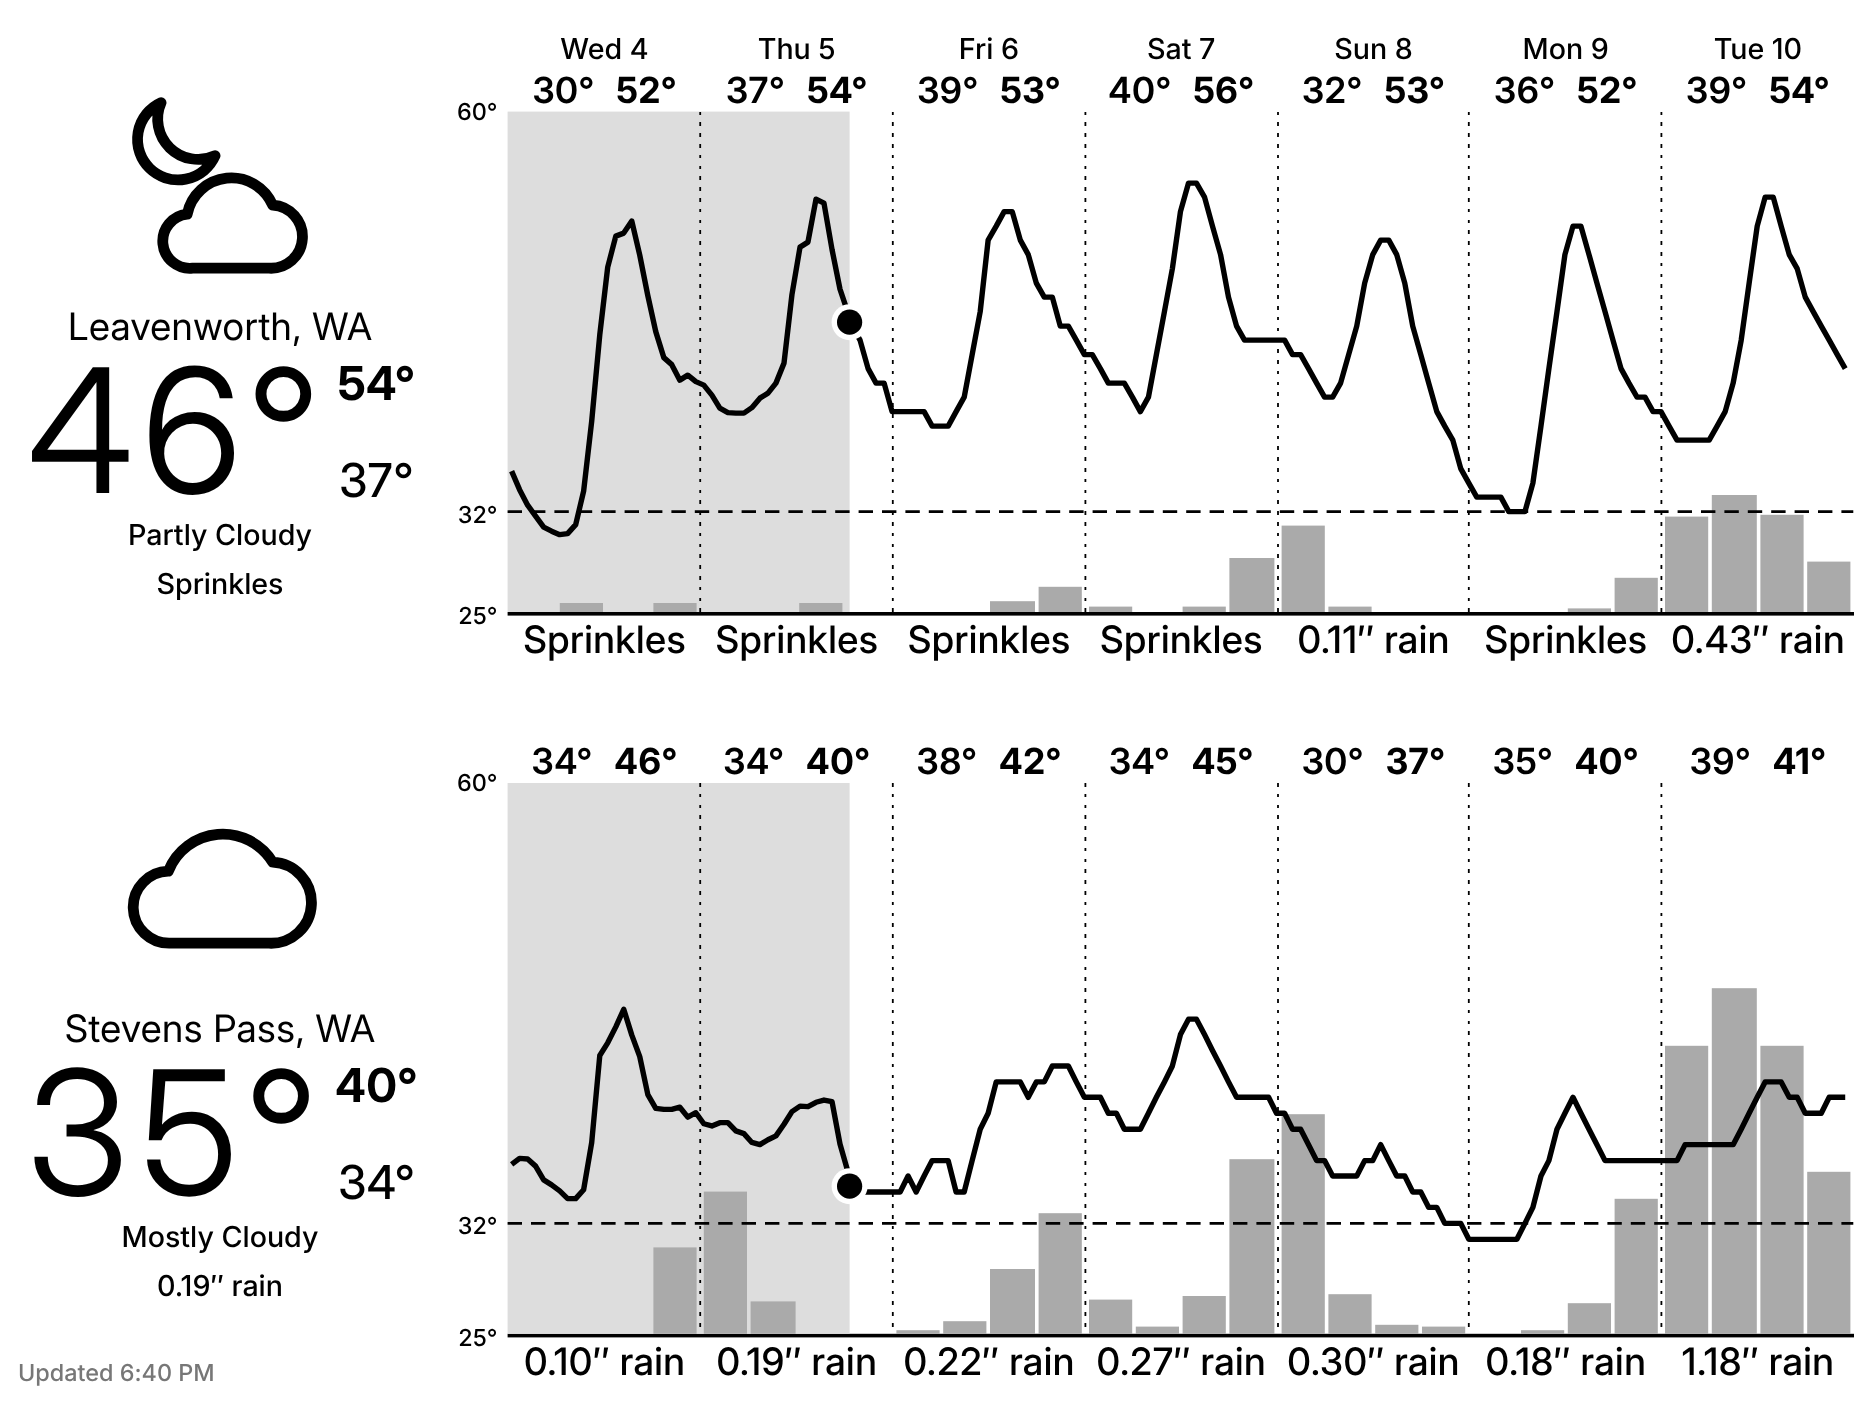
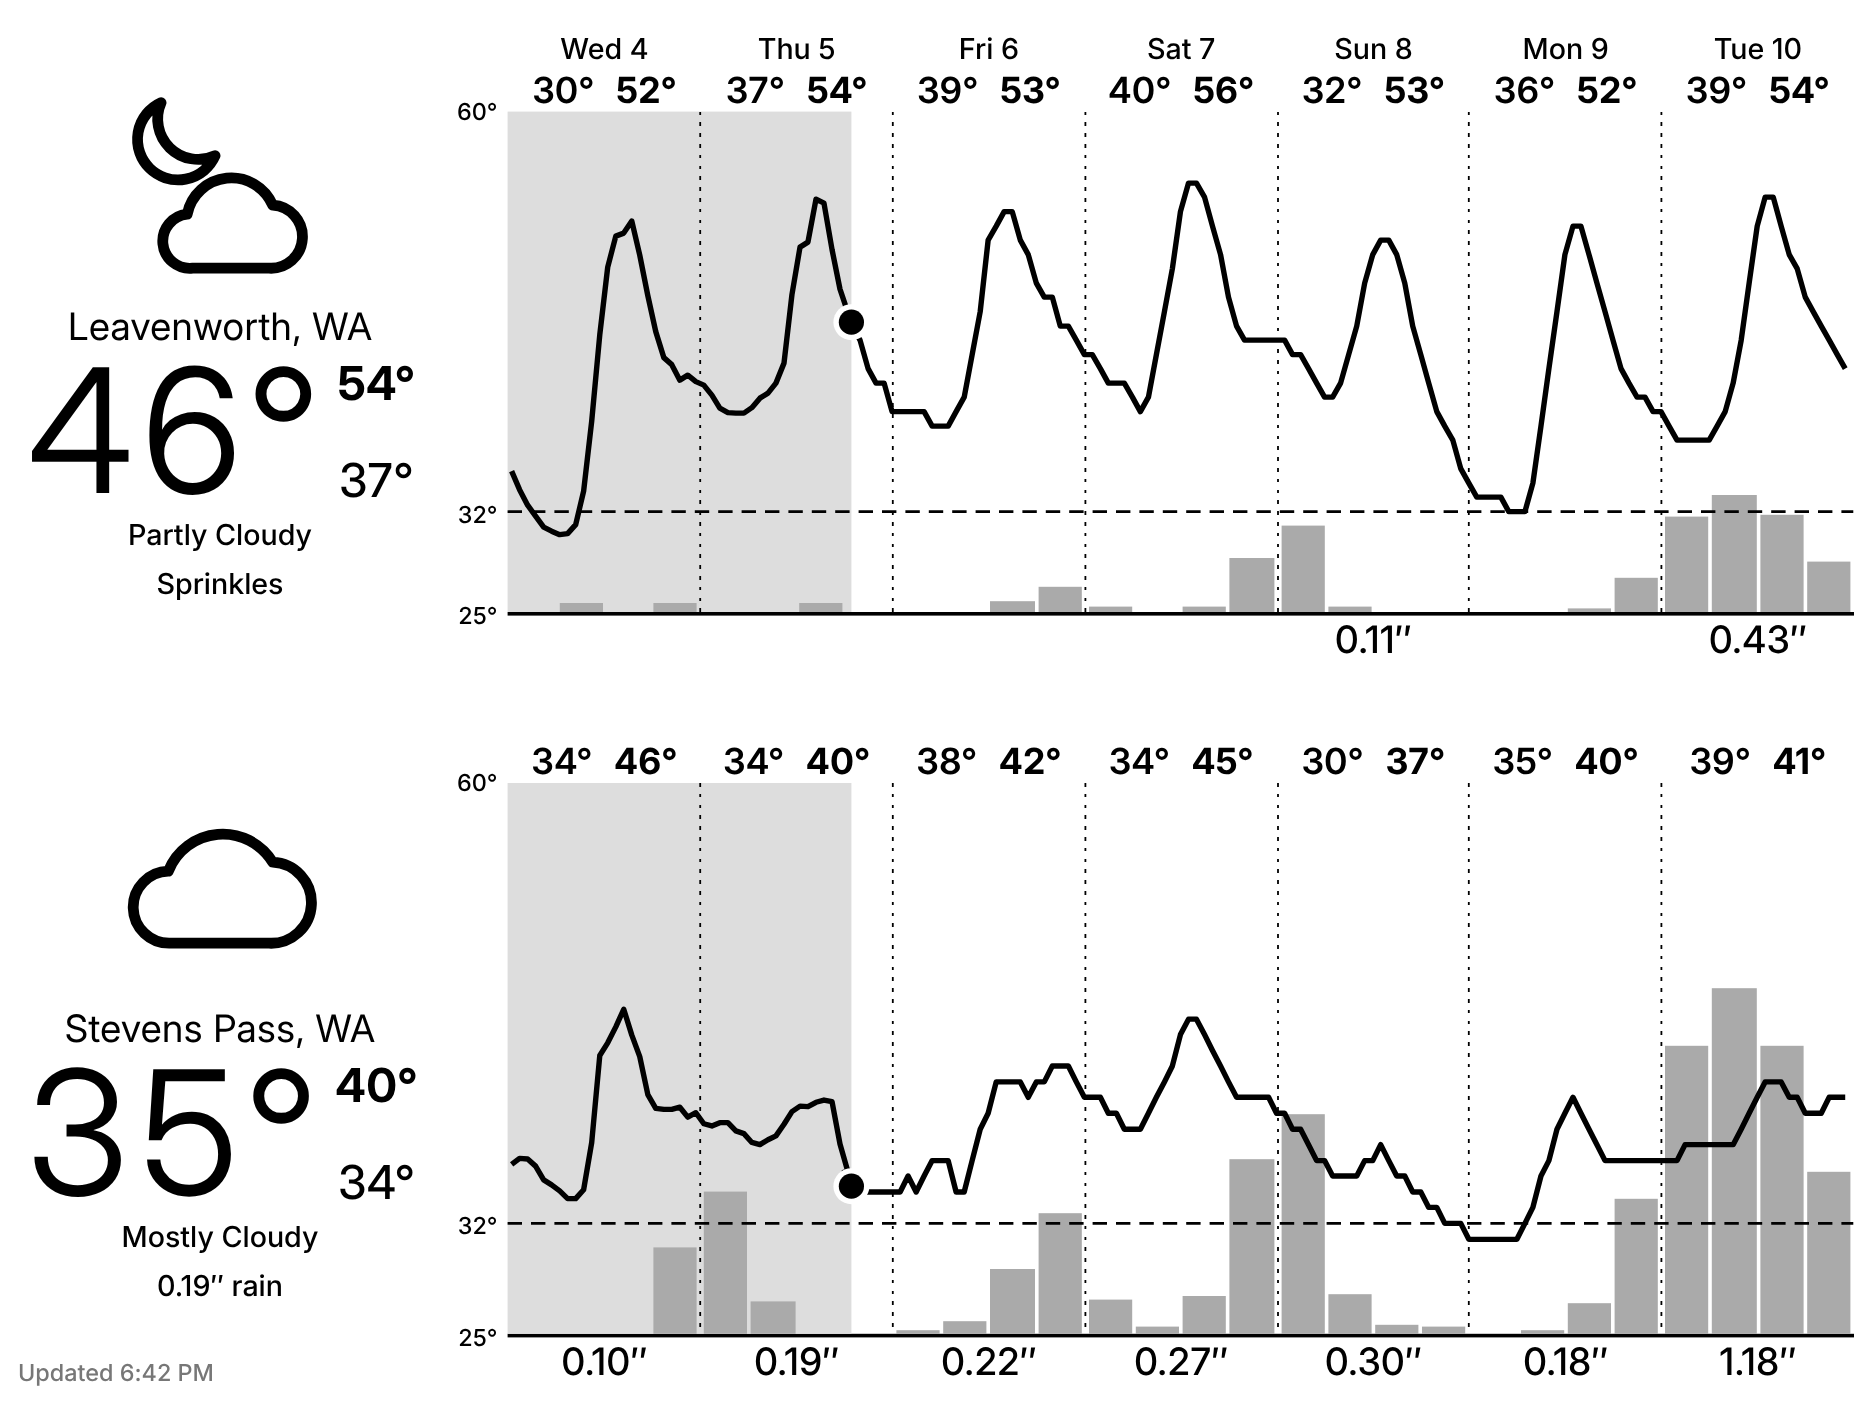
List only the day's numbers under the chart
No "Sprinkles"/"Flurries" and no "rain"/"snow" words; the bar shading
tells them apart. The left column keeps today's amounts in words.

Claude-Session: https://claude.ai/code/session_018zBtTfGxqR6ysBZYHYeVbJ

diff --git a/server/forecast/glance_test.go b/server/forecast/glance_test.go
@@ -331,6 +331,9 @@ func TestBuildChartRainAndSnow(t *testing.T) {
 		len(days[2].Amounts) != 0 {
 		t.Errorf("amounts = %q / %q / %q", days[0].Amounts, days[1].Amounts, days[2].Amounts)
 	}
+	if !reflect.DeepEqual(days[0].Totals, []string{"0.50″"}) || !reflect.DeepEqual(days[1].Totals, []string{"2.0″"}) {
+		t.Errorf("totals = %q / %q", days[0].Totals, days[1].Totals)
+	}
 	if c.TempMin != 20 || c.TempMax != 45 || c.FreezeY == nil || c.Label != "Snow 2.0″ · Rain 0.50″" {
 		t.Errorf("scale %d-%d freeze %v label %q", c.TempMin, c.TempMax, c.FreezeY, c.Label)
 	}
@@ -745,5 +748,25 @@ func TestSnowNeedsTwoStations(t *testing.T) {
 		if got := newObserved(tc.s, math.NaN()).snow(from, to, barSnowMinRise); math.Abs(got-tc.want) > 0.05 {
 			t.Errorf("%s: snow = %.2f, want %.1f", tc.name, got, tc.want)
 		}
+	}
+}
+
+func TestTotalsSkipLightAmounts(t *testing.T) {
+	loc, _ := time.LoadLocation("America/Los_Angeles")
+	now := time.Date(2026, 11, 2, 6, 0, 0, 0, loc)
+	grid := GridData{}
+	add := func(series *GridSeries, h int, v float64) {
+		series.Values = append(series.Values, struct {
+			ValidTime string   `json:"validTime"`
+			Value     *float64 `json:"value"`
+		}{time.Date(2026, 11, 2, h, 0, 0, 0, loc).Format(time.RFC3339) + "/PT6H", &v})
+	}
+	add(&grid.Properties.QuantitativePrecipitation, 0, 1.0) // 0.04″: sprinkles
+	add(&grid.Properties.QuantitativePrecipitation, 24, 5.0) // 0.20″
+	days := make([]Day, 2)
+	buildChart(&grid, days, loc, now, "us", "auto", nil, nil, 0)
+	if len(days[0].Totals) != 0 || !reflect.DeepEqual(days[0].Amounts, []string{"Sprinkles"}) ||
+		!reflect.DeepEqual(days[1].Totals, []string{"0.20″"}) {
+		t.Errorf("days = %+v", days)
 	}
 }

diff --git a/server/forecast/chart.go b/server/forecast/chart.go
@@ -309,6 +309,14 @@ func (c *Chart) fillBars(grid *GridData, days []Day, start, end, today, now time
 		if a := describeAmount(rn, roundAmount(rn, "rain", units), days[i].Rain, rainWord, "Sprinkles", sprinkles); a != "" {
 			days[i].Amounts = append(days[i].Amounts, a)
 		}
+		// The chart lists just the numbers, and nothing for amounts under the light limits.
+		days[i].Totals = []string{}
+		if days[i].Snow != "" && roundAmount(sn, "snow", units) >= flurries {
+			days[i].Totals = append(days[i].Totals, days[i].Snow)
+		}
+		if days[i].Rain != "" && roundAmount(rn, "rain", units) >= sprinkles {
+			days[i].Totals = append(days[i].Totals, days[i].Rain)
+		}
 	}
 
 	// What's still to come today (the block we're in counts), for the current-conditions icon.

diff --git a/server/forecast/glance.go b/server/forecast/glance.go
@@ -56,7 +56,8 @@ type Day struct {
 	HeightPct float64  `json:"height_pct"`
 	Snow      string   `json:"snow"`    // forecast snowfall for the day, e.g. "0.8″", or ""
 	Rain      string   `json:"rain"`    // forecast rain for the day, e.g. "0.13″", or ""
-	Amounts   []string `json:"amounts"` // what the chart lists under the day, e.g. ["0.8″ snow", "0.13″ rain"]
+	Amounts   []string `json:"amounts"` // the day's amounts in words, e.g. ["1.2″ snow", "Sprinkles"]
+	Totals    []string `json:"totals"`  // what the chart lists under the day: amounts past the light limits, e.g. ["1.2″", "0.13″"]
 }
 
 type Scale struct {
